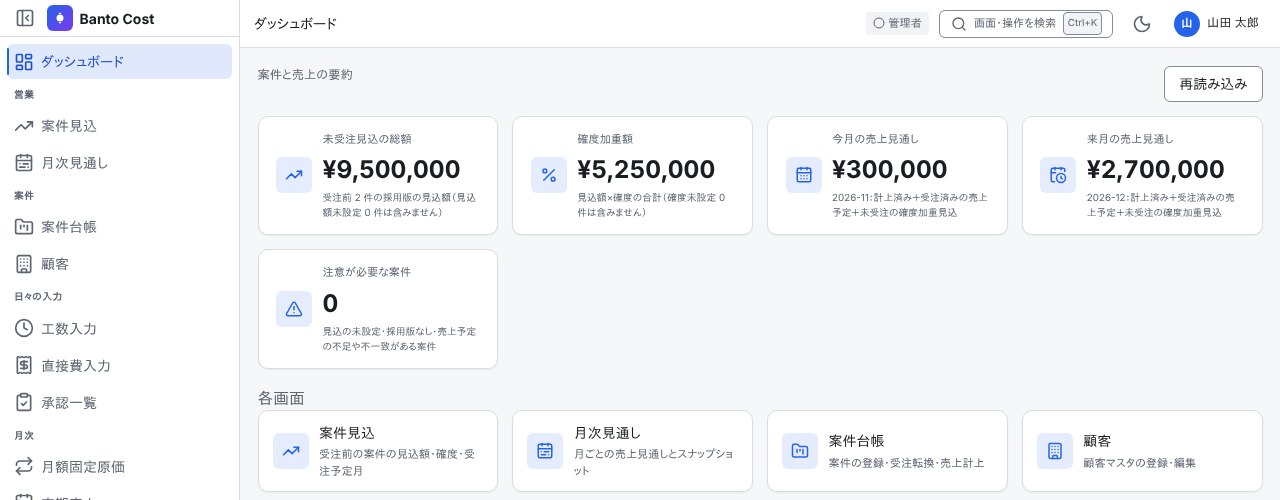
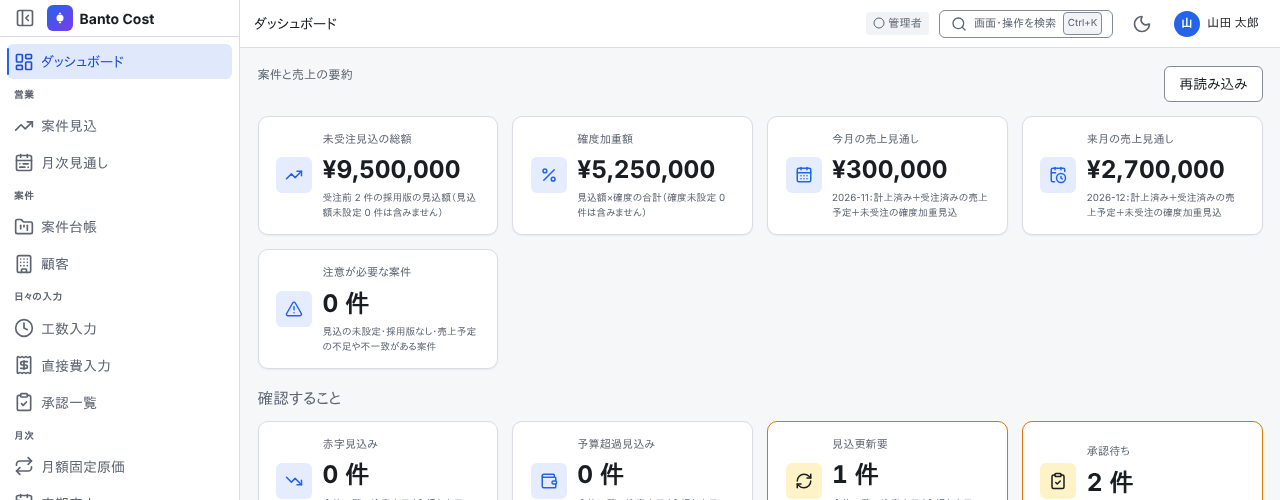
docs: ダッシュボードの確認することと業務の流れの E2E を取説・設計案・CHANGELOG に書く
Claude-Session: https://claude.ai/code/session_01GsALM11mCMAsBJsrmLcVNS

diff --git a/CHANGELOG.md b/CHANGELOG.md
@@ -22,6 +22,8 @@
 
 ## [Unreleased]
 
+- banto-cost（P8g 見える化と検証、レビュー §8-10・§8-11）: ダッシュボードに「確認すること」を追加した。全体一覧の注意表示から赤字見込み（完了見込赤字）・予算超過見込み・見込更新要の案件数、承認一覧と同じ承認待ちの件数（工数・直接費・工数の訂正）、月額固定原価と定期売上の今月の未計上の件数（前月の件数も添える）を出し、各カードはそれを直す画面へのリンクにした。件数があるカードは枠を警告色にする。見る権限のない項目は「権限がありません」と出し、0件にしない。直接費の台帳に要確認があると集計できない案件の件数を添える。既存の API（`GET /api/portfolio`・承認一覧・月額固定と定期売上の月）を呼ぶだけで、サーバーと DB の変更なし。「注意が必要な案件」の表示を「n 件」にそろえた。架空の1案件で主な業務の流れ（案件登録→案件見込の採用→受注転換→進行中→工数の申請して承認→直接費の申請→一括承認→売上計上→完了見込の赤字がダッシュボードに出る）を画面で通す E2E（`e2e/tests/workflow.spec.ts`）と、業務画面 13 画面をライト・ダークの両方で axe（wcag2a/wcag2aa）にかける検査を追加した。検査で見つかったコントラスト不足を直した：全体一覧の重い注意表示の札（ライト・ダークとも 4.5:1 未満）を赤の薄い面と文字の組に、ダークテーマの `--banto-danger`（`#ef4444` → `#f87171`）と `--banto-danger-tint-text`（`#f87171` → `#fca5a5`）を明るくした（`packages/theme`。赤字の金額・危険のバッジが暗い面の上で 4.5:1 を満たす）。
+
 - banto-cost（受注日・根拠の訂正、T41）: 受注転換の受注日と根拠（注文書番号・契約など）を、理由をつけて訂正できるようにした。受注変更・売上計上・工数などの記録が付いた後でも直せる（精算完了の案件は精算完了を取り消してから）。金額・売上予定・集計は変わらない。訂正の前後の値・理由・訂正日・実施者は訂正履歴に残し、受注・売上の欄に表示する。`POST /api/projects/{id}/order/conversion/correct`（Tauri `order_conversion_correct`、`EditOrder`、`revenueVersion` で比較更新）を追加し、受注の応答の `conversion` に `corrections` を足した。DB 変更あり（`0026_order_conversion_corrections.sql`）。あわせて PR #46 のレビュー指摘を直した：一部受注の取消で残りの範囲の案件にも `EditProject` を判定する（REST・Tauri）、月額固定・定期売上の計上では確認の後の読み直しで件数だけでなく対象の取り決め（ID・案件・金額・版）も比べる、取消の説明の「受注後の記録」を具体的な記録の名前に、一部受注をやり直すときは残りの範囲の案件に別の案件IDが要ることを取説に書いた。
 - banto-cost（P8f 取り返しにくい操作、レビュー §8-8・§8-14）: 受注転換・受注変更の承認・案件見込の採用・予算の承認・完了見込の採用・精算完了とその取消・月次締めと再開・月額固定と定期売上の計上・工数と直接費の一括承認・単価未登録の工数の承認・申請して承認の確認を、ブラウザの `window.confirm` から共通の確認画面（`confirmAction`・`ConfirmActionHost`、`@banto/ui` の `Modal`）に移した。対象（案件・金額・月・件数など）を一覧にし、あとで取り消せるか・どう直すかを必ず示す。入力の破棄の確認は従来どおり。あわせて受注転換の取消を追加した（T40）：受注変更・売上計上（取消済みを含む）・予算・工数・直接費・完了見込・月額固定・定期売上がない案件だけ、理由をつけて転換前の状態に戻し、受注済みの売上予定を消す。一部受注では残りの範囲の案件を中止にする（見込を二重に数えない）。取り消した転換は取消日・理由・実施者つきで履歴に残り、もう一度受注転換できる。進行中以降の案件と、残りの範囲の案件が受注転換済みの一部受注は取り消せない。`POST /api/projects/{id}/order/conversion/cancel`（Tauri `order_conversion_cancel`、`EditOrder`）を追加し、受注の応答に `cancelBlockers`（取り消せない理由）と `cancelledConversions`（履歴）を足した。DB 変更あり（`0025_order_conversion_cancel.sql`：`order_conversions` に取消の列、案件ごとの一意制約を取り消していない行だけの部分一意索引に）。
 

diff --git a/README.md b/README.md
@@ -100,7 +100,16 @@ flowchart LR
 
 ![ダッシュボード](docs/assets/manual/02-dashboard.png)
 
-ログイン後に最初に開く画面です。未受注見込の総額、確度加重額、今月・来月の売上見通し、注意が必要な案件の数を表示します。カードから各画面へ移動できます。下のメモ欄は自分用のメモで、パネルを外に出して浮かせることもできます。
+ログイン後に最初に開く画面です。未受注見込の総額、確度加重額、今月・来月の売上見通し、注意が必要な案件の数を表示します。
+
+「確認すること」には、今日手を付けることの件数が並びます。カードを押すと、それを直す画面に移ります。件数が1件以上のカードは橙色の枠になります。
+
+- **赤字見込み・予算超過見込み・見込更新要**：案件台帳の注意表示の件数（金額を見られる案件だけ）。案件台帳へ移ります。
+- **承認待ち**：申請された工数・直接費・工数の訂正のうち、自分が承認できるものの件数。承認一覧へ移ります。
+- **月額固定原価の未計上・定期売上の未計上**：今月まだ計上していない取り決めの件数。下の行に前月の未計上の件数も出ます。
+- 見る権限のない項目は「権限がありません」と出ます（0件とは出しません）。直接費の台帳に要確認の明細があると、その上に集計できない案件の件数が出ます。
+
+下の「各画面」から主な画面へ移動できます。メモ欄は自分用のメモで、パネルを外に出して浮かせることもできます。
 
 ### 顧客
 
